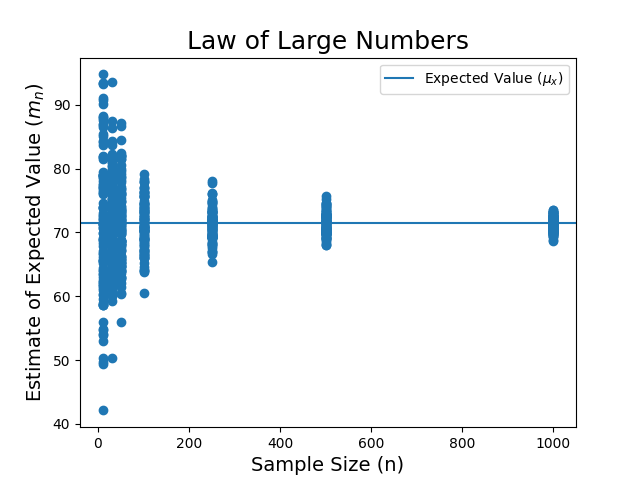
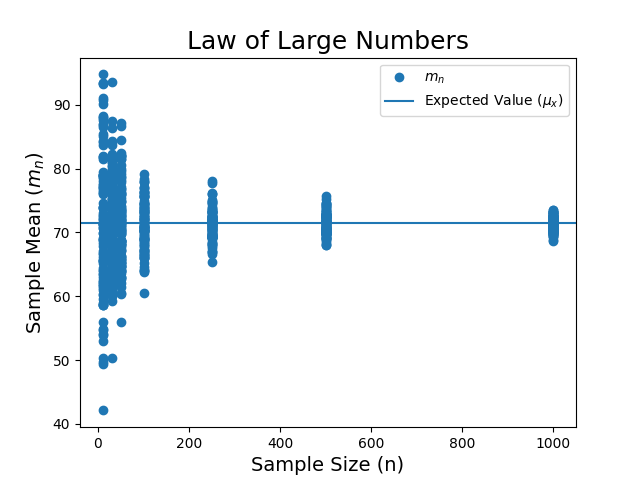
Changed graph code

Changed region(s): [[0.0312, 0.1562, 0.0625, 0.8438], [0.5938, 0.1562, 0.9062, 0.25]]

diff --git a/Project3.py b/Project3.py
@@ -66,7 +66,7 @@ plt.scatter(x, y)
 plt.axhline(expected_value, label="Expected Value ($\mu_{x}$)")
 plt.title('Law of Large Numbers', fontsize=18)
 plt.xlabel('Sample Size (n)', fontsize=14)
-plt.ylabel('Estimate of Expected Value ($m_{n}$)', fontsize=14)
-plt.legend()
+plt.ylabel('Sample Mean ($m_{n}$)', fontsize=14)
+plt.legend(("$m_{n}$", "Expected Value ($\mu_{x}$)"))
 plt.savefig("graph.png")
 
